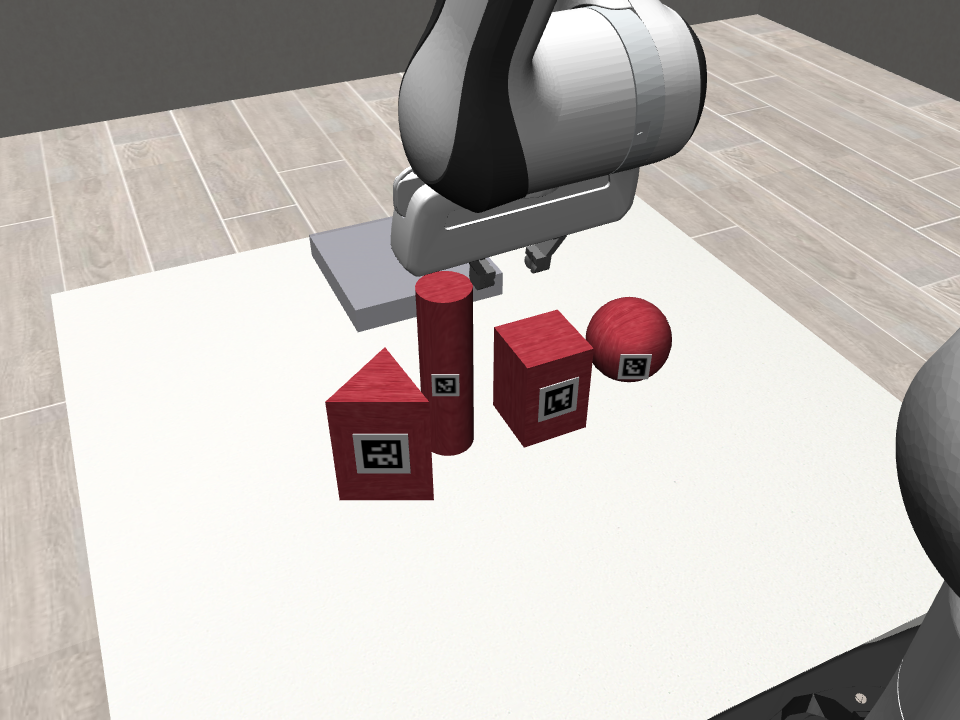
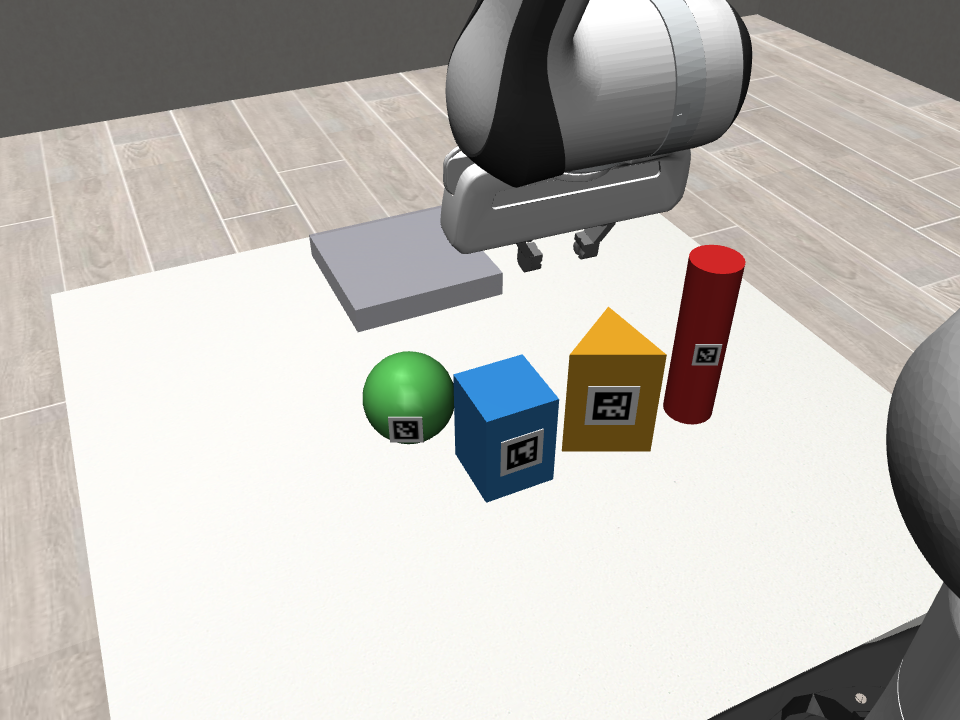
Refactor material handling in MultiObjectPickPlaceEnv to use plain rgba for distinct shape coloring, ensuring visual differentiation without texture overrides.

Changed region(s): [[0.3125, 0.0, 0.7812, 0.7028], [0.9062, 0.4278, 1.0, 0.7028], [0.9375, 0.7028, 0.9688, 0.7639]]

diff --git a/environment_multi.py b/environment_multi.py
@@ -277,12 +277,14 @@ class MultiObjectPickPlaceEnv(PickPlaceEnv):
             marker_id = MARKER_ID_BY_SHAPE[shape]
             scale = self._scale_factor()
             rgba = self._random_rgba(shape)
-            material = CustomMaterial(
-                texture="WoodRed" if shape != "cylinder" else "WoodRed",
-                tex_name=f"{shape}_tex", mat_name=f"{shape}_mat",
-                tex_attrib={"type": "cube"},
-                mat_attrib={"texrepeat": "1 1", "specular": "0.4", "shininess": "0.1"},
-            )
+            # No CustomMaterial/texture here (unlike Phase 1's single
+            # cylinder) — a textured material OVERRIDES rgba entirely
+            # (confirmed in-sandbox: with every shape given the same
+            # "WoodRed" texture, all four objects rendered identically red
+            # regardless of their distinct rgba values). Plain rgba
+            # coloring is what makes "randomize color" (and simply
+            # visually telling the four shapes apart) actually work.
+            material = None
 
             if shape == "cylinder":
                 radius, half_length = 0.025 * scale, 0.09 * scale
